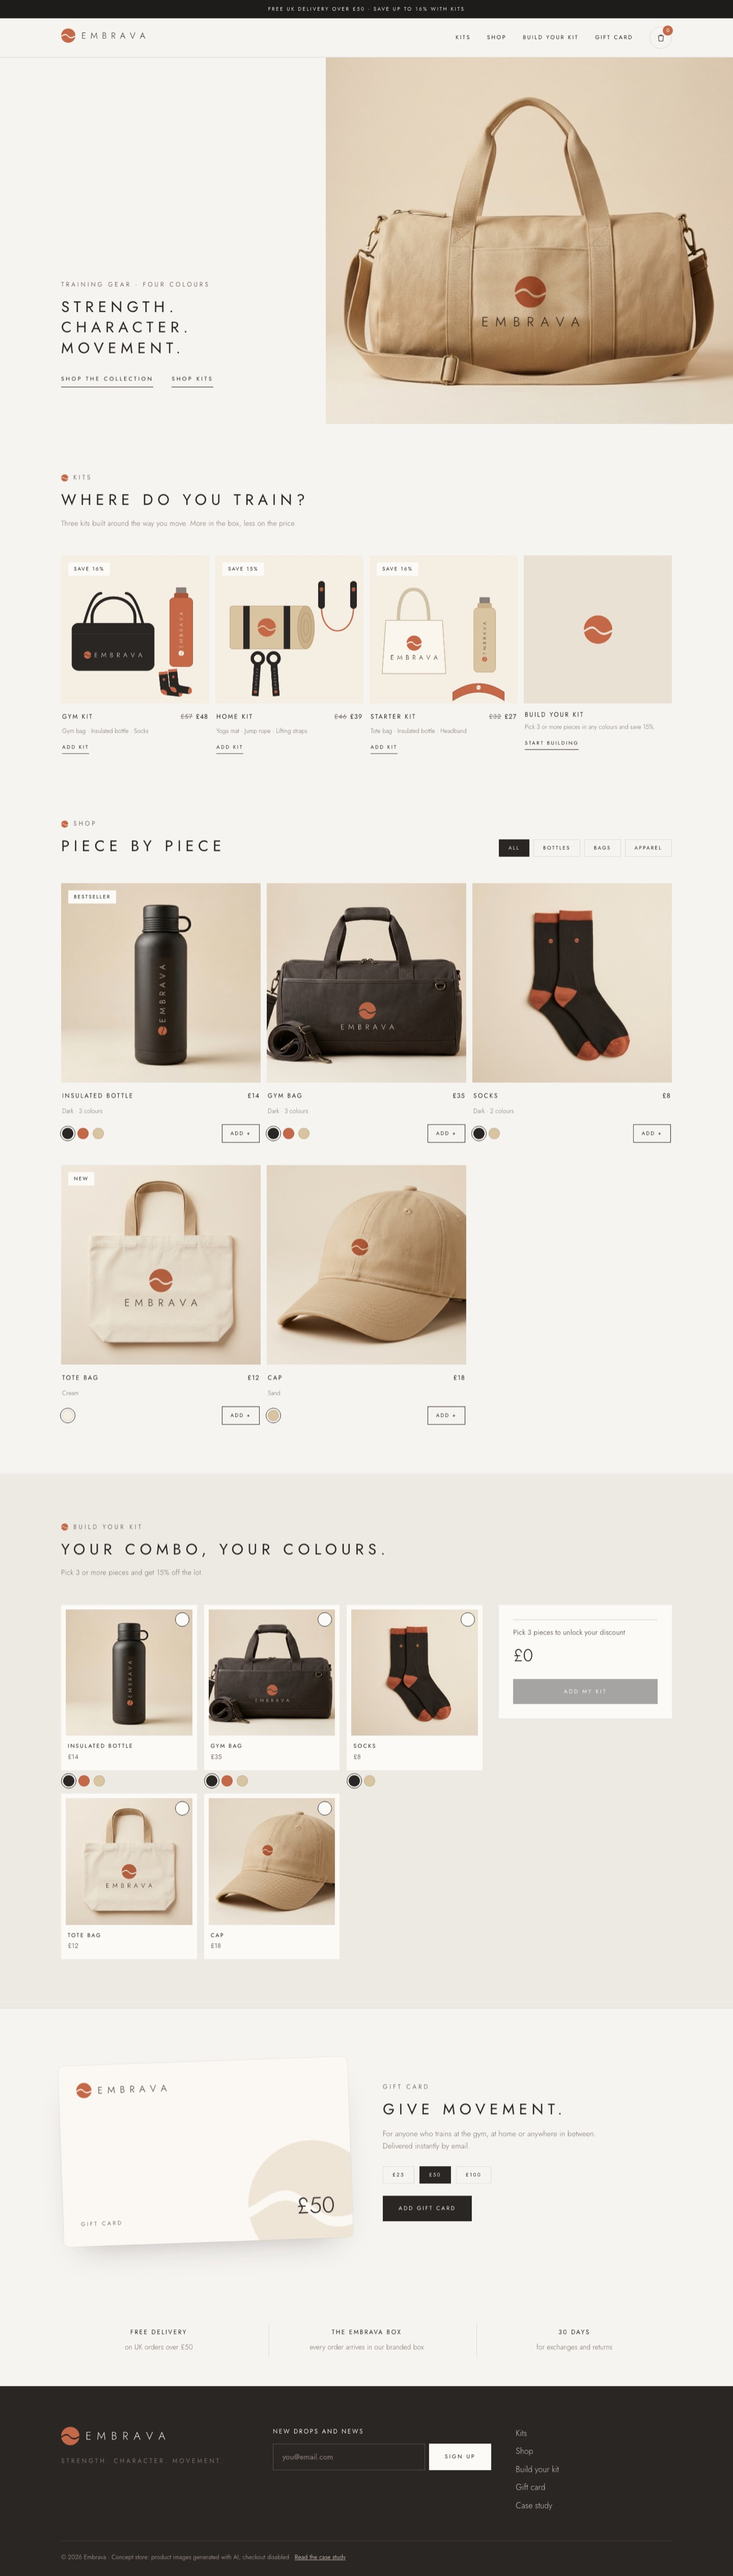
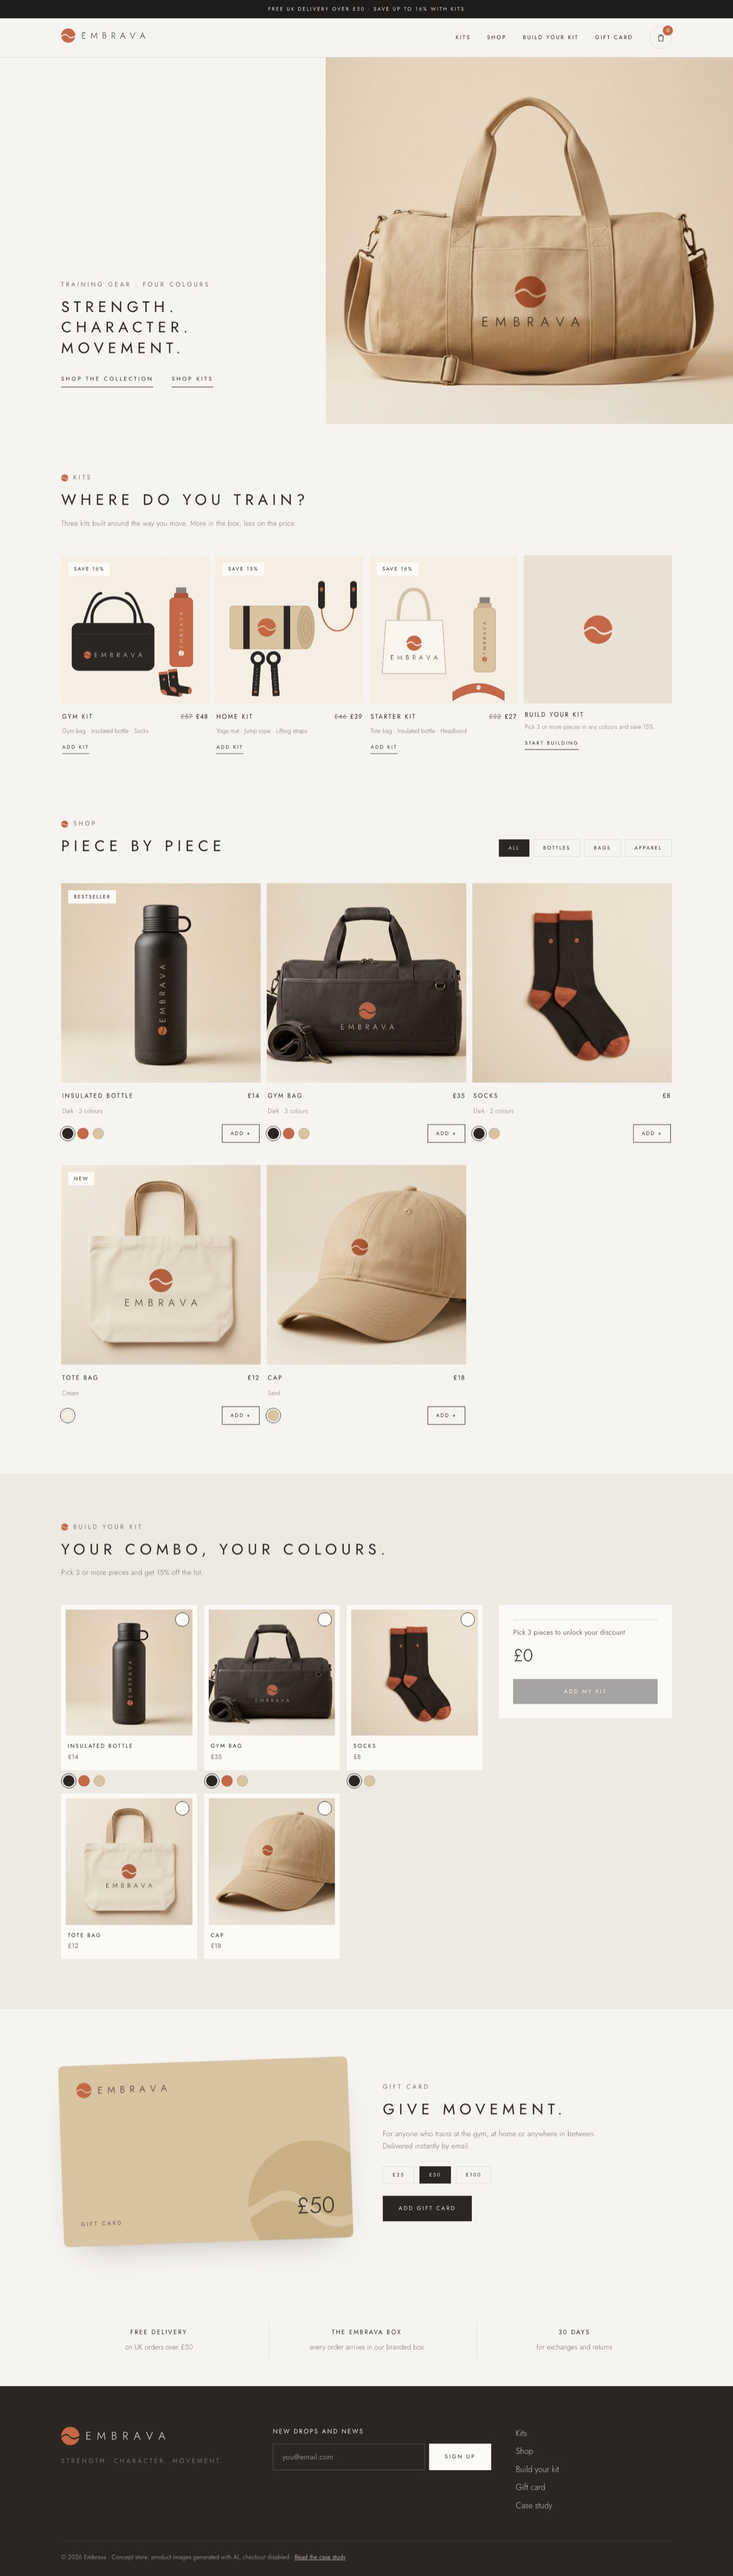
Sand gift card for more contrast on the light background

Changed region(s): [[0.0617, 0.7766, 0.4933, 0.8698]]

diff --git a/styles.css b/styles.css
@@ -231,15 +231,15 @@ strong { font-weight: 500; }
 .gift__card {
   position: relative; overflow: hidden;
   aspect-ratio: 1.6; border-radius: 10px; padding: 34px;
-  background: #FBF8F3; color: var(--dark); transform: rotate(-2deg);
+  background: var(--sand); color: var(--dark); transform: rotate(-2deg);
   box-shadow: 0 30px 60px -36px rgba(42, 38, 36, .35), 0 0 0 1px rgba(42, 38, 36, .06);
   display: flex; flex-direction: column; justify-content: space-between;
 }
 .gift__card .logo { position: relative; }
 .gift__card .logo__sym { width: 30px; height: 30px; }
 .gift__card .logo__word { height: 13px; }
-.gift__wave { position: absolute; width: 44%; height: auto; aspect-ratio: 1; right: -8%; bottom: -16%; color: var(--sand); opacity: .35; }
-.gift__label { position: relative; letter-spacing: .3em; text-transform: uppercase; font-size: 11px; color: var(--muted); }
+.gift__wave { position: absolute; width: 44%; height: auto; aspect-ratio: 1; right: -8%; bottom: -16%; color: #C9AF86; opacity: 1; }
+.gift__label { position: relative; letter-spacing: .3em; text-transform: uppercase; font-size: 11px; color: #5F5650; }
 .gift__amount { position: absolute; right: 34px; bottom: 30px; font-size: 44px; font-weight: 300; color: var(--dark); }
 .gift__copy p:not(.eyebrow) { color: var(--muted); font-weight: 300; font-size: 15px; margin: 16px 0 28px; max-width: 28em; }
 .gift__amounts { display: flex; gap: 10px; margin-bottom: 24px; flex-wrap: wrap; }
